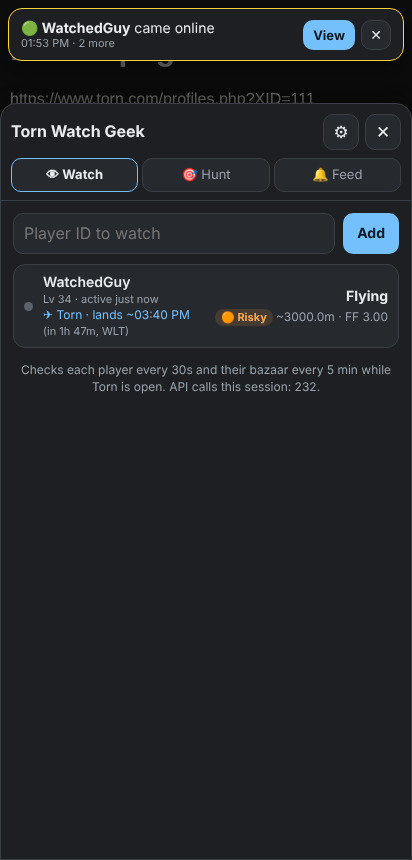
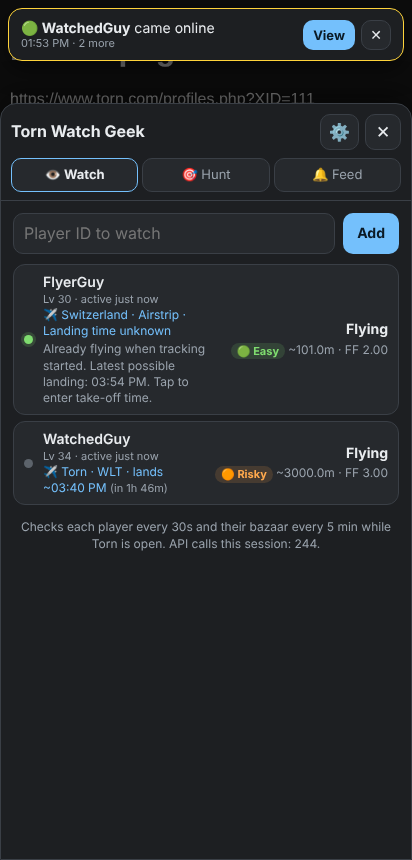
1.4.1: clearer wording when the take-off wasn't seen
'Landing time unknown' with a second line: 'Already flying when tracking
started. Latest possible landing: X. Tap to enter take-off time.' (on the
player page it points to the box below). Feed says 'already in the air
when tracking started'.

Claude-Session: https://claude.ai/code/session_01QZib5gaoEbii82ger62EmG

diff --git a/torn-watch-geek.user.js b/torn-watch-geek.user.js
@@ -1,7 +1,7 @@
 // ==UserScript==
 // @name         Torn Watch Geek
 // @namespace    https://github.com/SarcasticGeekJr/torn-watch-geek
-// @version      1.4.0
+// @version      1.4.1
 // @description  Watch players (online, hospital, jail, flight landing times, bazaar and Item Market listings) and find mug targets: rich sellers, sleeping workers in high-paying companies, and your own advanced search, all with estimated battle stats and win chance. Built for Torn PDA, works in Tampermonkey too.
 // @author       SarcasticGeekJr
 // @match        https://www.torn.com/*
@@ -48,7 +48,7 @@
 
   // ---------------------------------------------------------------- config
   const PDA_KEY = "###PDA-APIKEY###"; // Torn PDA replaces this with your key at runtime
-  const VERSION = "1.4.0"; // keep in sync with @version above
+  const VERSION = "1.4.1"; // keep in sync with @version above
   const UPDATE_URL = "https://raw.githubusercontent.com/SarcasticGeekJr/torn-watch-geek/main/torn-watch-geek.user.js";
   const TORN = "https://api.torn.com";
   const FFS = "https://ffscouter.com/api/v1/get-stats";
@@ -438,21 +438,23 @@
     return { known, manual: !!t.manual, single: !!tk, how: tk ? tk.how : "", lo: Math.min(...opts.map((o) => o.lo)), hi: Math.max(...opts.map((o) => o.hi)), opts };
   }
   // Careful wording: only claim what is known.
-  function travelLine(w) {
+  // where: "row" (Watch list, tap opens the player) or "page" (player page, box is below).
+  function travelLine(w, where) {
     const s = w.s || {};
     if (!s.trip) return "";
-    const where = s.trip.dir === "back" ? "Torn" : s.trip.country || "?";
+    const dest = s.trip.dir === "back" ? "Torn" : s.trip.country || "?";
     const e = tripEstimate(w);
-    if (!e) return `✈ ${esc(where)}`;
-    if (e.unknown) return `✈ ${esc(where)} · should land any minute`;
+    if (!e) return `✈ ${esc(dest)}`;
+    if (e.unknown) return `✈ ${esc(dest)} · should land any minute`;
     const tk = e.single ? ` · ${TICKETS[e.opts[0].k]}` : "";
     const src = e.manual ? "take-off time you entered" : "";
-    if (!e.known) return `✈ ${esc(where)}${tk} · could land any time until ${clock(e.hi)} <small class="muted">(didn't see take-off)</small>`;
+    if (!e.known)
+      return `✈ ${esc(dest)}${tk} · Landing time unknown<br><span class="muted tl2">Already flying when tracking started. Latest possible landing: ${clock(e.hi)}. ${where === "page" ? "Enter the take-off time below if you know it." : "Tap to enter take-off time."}</span>`;
     if (e.single) {
       const o = e.opts[0];
-      return `✈ ${esc(where)}${tk} · lands ~${clock(o.mid)} <small class="muted">(in ${dur(o.mid - now())}${src ? ", " + src : ""})</small>`;
+      return `✈ ${esc(dest)}${tk} · lands ~${clock(o.mid)} <small class="muted">(in ${dur(o.mid - now())}${src ? ", " + src : ""})</small>`;
     }
-    return `✈ ${esc(where)} · lands between ${clock(Math.max(e.lo, now()))} and ${clock(e.hi)}${src ? ` <small class="muted">(${src})</small>` : ""}`;
+    return `✈ ${esc(dest)} · lands between ${clock(Math.max(e.lo, now()))} and ${clock(e.hi)}${src ? ` <small class="muted">(${src})</small>` : ""}`;
   }
   // Ask Torn's v2 profile for the plane type when v1 didn't include it (1 call per flight at most).
   async function fetchPlane(id) {
@@ -494,7 +496,7 @@
       if (cur.trip && tripKey(prev.trip) !== tripKey(cur.trip)) {
         w.trip = { dir: cur.trip.dir, country: cur.trip.country, depLo: fresh && !prev.trip ? prevSeen : 0, depHi: t, plane: planeOf(p) };
         const e = tripEstimate(w);
-        event(id, "travel", (cur.trip.dir === "back" ? `flying back to Torn from ${cur.trip.country}` : `flying to ${cur.trip.country}`) + (e && !e.unknown && e.known ? ` · lands ${clock(e.lo)}–${clock(e.hi)}` : ""));
+        event(id, "travel", (cur.trip.dir === "back" ? `flying back to Torn from ${cur.trip.country}` : `flying to ${cur.trip.country}`) + (e && !e.unknown && e.known ? ` · lands ${clock(e.lo)}–${clock(e.hi)}` : " (already in the air when tracking started)"));
       }
       if (prev.trip && !cur.trip) {
         const trip = w.trip;
@@ -1407,7 +1409,7 @@
   function watchRow(id) {
     const w = W[id];
     const b = statusBits(w.s);
-    const trav = travelLine(w);
+    const trav = travelLine(w, "row");
     return `<button class="row" data-act="player" data-id="${id}">
       <span class="dot ${b.dot}"></span>
       <span class="nm">${esc(w.name || "#" + id)} <small>${w.level ? "Lv " + w.level + " · " : ""}${b.la ? "active " + b.la : ""}${w.err ? ` · <span class="r">${esc(w.err)}</span>` : ""}</small>
@@ -1462,7 +1464,7 @@
       </div>
       ${
         est && !est.unknown
-          ? `<div class="box"><b>${travelLine(w)}</b>
+          ? `<div class="box"><b>${travelLine(w, "page")}</b>
           ${!est.single ? `<div class="small muted">${est.known ? "If they flew" : "Latest landing if they flew"}: ${est.opts.map((o) => `${TICKETS[o.k]} ${est.known ? "~" + clock(o.mid) : "by " + clock(o.hi)}`).join(" · ")}</div>` : ""}
           <div class="small muted">${planeNote(w)}</div>
           ${
@@ -2827,6 +2829,7 @@ input:focus, select:focus { border-color: var(--acc); }
 .row small { display: block; font-weight: 400; font-size: 11px; color: var(--muted); }
 .row small.trav { color: var(--acc); font-size: 12px; }
 .row small.trav small { display: inline; }
+.row small.trav .tl2, .box .tl2 { display: block; font-weight: 400; font-size: 12px; margin-top: 2px; }
 .row .rt { text-align: right; flex: none; max-width: 48%; }
 .row .rt small { margin-top: 3px; }
 .row.ev { align-items: flex-start; }
